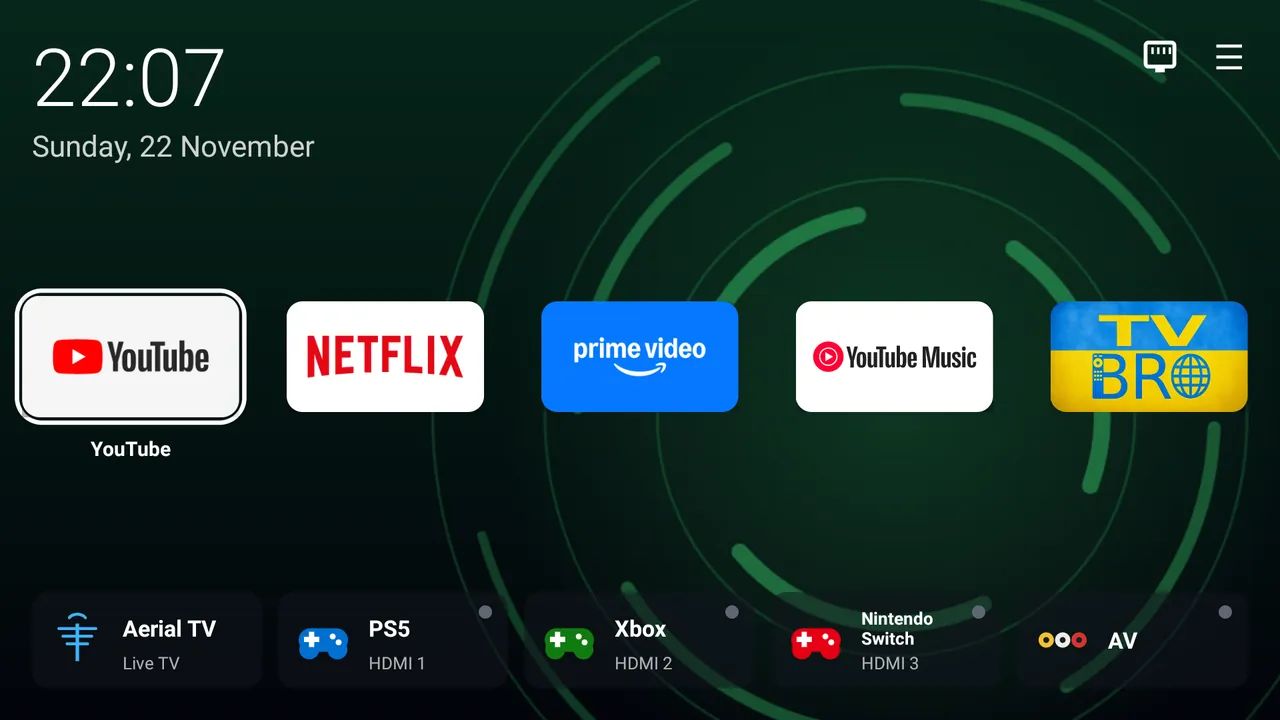
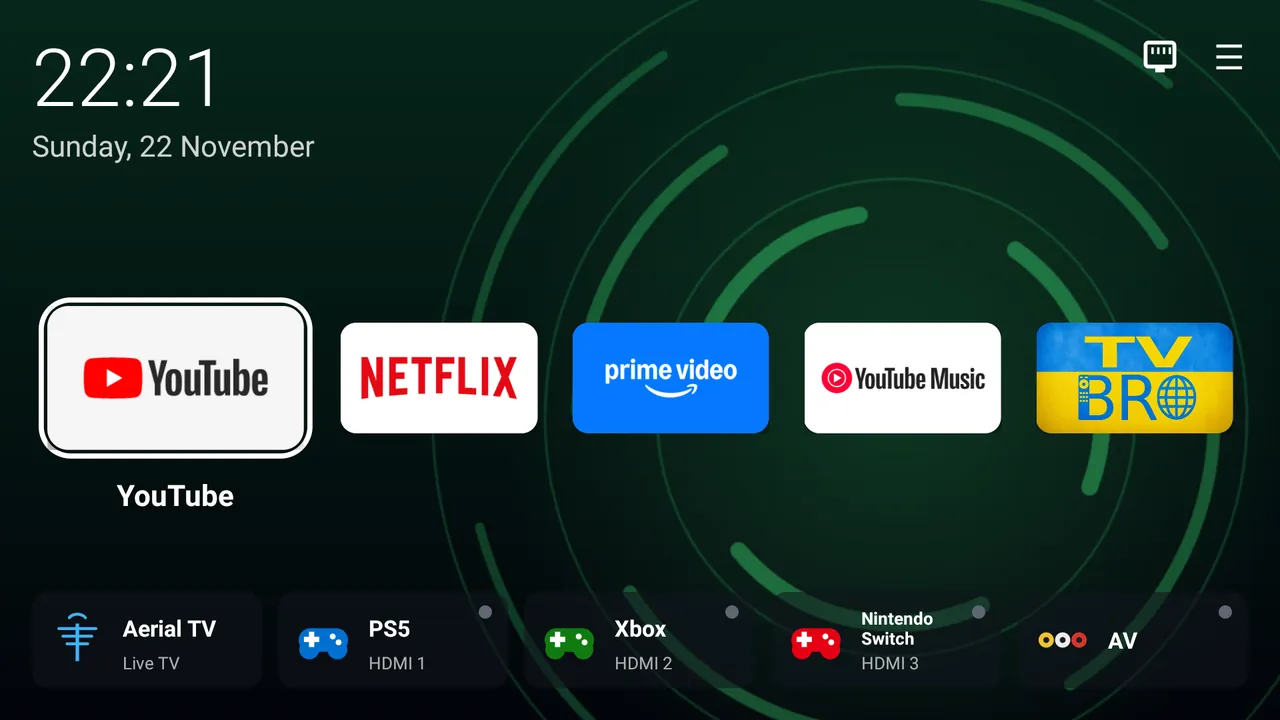
feat(launcher): console-style enlarged focus with centred name in the apps row (#44)

Changed region(s): [[0.0, 0.3972, 1.0, 0.6417], [0.0938, 0.0611, 0.1875, 0.1528], [0.0938, 0.6722, 0.1875, 0.7028]]

diff --git a/apps/home/src/io/github/yohannaftali/axshome/HomeActivity.java b/apps/home/src/io/github/yohannaftali/axshome/HomeActivity.java
@@ -64,6 +64,12 @@ public final class HomeActivity extends Activity {
     private static final int SCROLL_BLEED = 12;
     private static final int TILE_W = 148;
     private static final int TILE_H = 83;
+    /** Console-style focus: the selected tile grows from its left edge, steps right, and its name sits under it. */
+    private static final float FOCUS_SCALE = 1.3f;
+    private static final int FOCUS_NUDGE = 10;
+    private static final int NAME_GAP = 12;
+    /** Right padding so the last tile can scroll fully into view when enlarged. */
+    private static final int FOCUS_ROOM = 72;
     private static final int DOT_ON = 0xFF3DDC84;
     private static final int DOT_OFF = 0xFF5F6673;
     private static final int BG = 0xFF05070D;
@@ -541,11 +547,30 @@ public final class HomeActivity extends Activity {
         scrollLp.rightMargin = -dp(SCROLL_BLEED + RING_GAP);
         grid.addView(scroll, scrollLp);
 
+        // The row packs from the left like a console's; the stage also holds the selected
+        // app's name, drawn under the enlarged tile.
+        FrameLayout stage = new FrameLayout(this);
+        stage.setClipChildren(false);
+        stage.setClipToPadding(false);
+        scroll.addView(stage);
+        rowScroll = scroll;
+
         LinearLayout row = new LinearLayout(this);
         row.setOrientation(LinearLayout.HORIZONTAL);
         row.setClipChildren(false);
         row.setClipToPadding(false);
-        scroll.addView(row);
+        // Room on the right so the last tile can scroll fully into view when enlarged.
+        row.setPadding(0, 0, dp(FOCUS_ROOM), 0);
+        stage.addView(row, new FrameLayout.LayoutParams(
+                ViewGroup.LayoutParams.WRAP_CONTENT, ViewGroup.LayoutParams.WRAP_CONTENT));
+        rowName = label("", 22, Color.WHITE, true);
+        rowName.setSingleLine(true);
+        rowName.setShadowLayer(dp(6), 0, dp(1), 0xAA000000);
+        rowName.setAlpha(0f);
+        stage.addView(rowName, new FrameLayout.LayoutParams(
+                ViewGroup.LayoutParams.WRAP_CONTENT, ViewGroup.LayoutParams.WRAP_CONTENT));
+        rowColumns.clear();
+        rowNames.clear();
 
         for (int i = 0; i < order.size(); i++) {
             String pkg = order.get(i);
@@ -556,10 +581,25 @@ public final class HomeActivity extends Activity {
                 startMove(pkg);
                 return true;
             });
-            if (row.getChildCount() > 0) {
-                row.addView(new android.widget.Space(this), new LinearLayout.LayoutParams(dp(TILE_SPACING), 1, 1f));
-            }
-            row.addView(t);
+            ((ViewGroup) t).getChildAt(1).setVisibility(View.GONE);
+            ring.setScaleX(1f);
+            ring.setScaleY(1f);
+            int index = rowColumns.size();
+            ring.setOnFocusChangeListener((v, has) -> {
+                if (has) {
+                    focusRow(index);
+                } else {
+                    ui.post(() -> {
+                        if (focusedRowIndex() < 0) focusRow(-1);
+                    });
+                }
+            });
+            LinearLayout.LayoutParams lp = new LinearLayout.LayoutParams(
+                    ViewGroup.LayoutParams.WRAP_CONTENT, ViewGroup.LayoutParams.WRAP_CONTENT);
+            if (row.getChildCount() > 0) lp.leftMargin = dp(TILE_SPACING);
+            row.addView(t, lp);
+            rowColumns.add(t);
+            rowNames.add(String.valueOf(ring.getContentDescription()));
             tiles.put(pkg, ring);
         }
     }
@@ -980,6 +1020,73 @@ public final class HomeActivity extends Activity {
         }
         ring.setOnClickListener(v -> launch(launch));
         return column;
+    }
+
+    private HorizontalScrollView rowScroll;
+    private TextView rowName;
+    private final List<View> rowColumns = new ArrayList<>();
+    private final List<String> rowNames = new ArrayList<>();
+
+    private int focusedRowIndex() {
+        for (int i = 0; i < rowColumns.size(); i++) {
+            if (ringOf(rowColumns.get(i)).isFocused()) return i;
+        }
+        return -1;
+    }
+
+    /**
+     * Console-style row: the focused tile grows to FOCUS_SCALE from its left edge and steps
+     * FOCUS_NUDGE to the right (so its outline is clear of the page edge), its name appears
+     * centred under it, and the tiles after it slide right to make room. f = -1 settles the row.
+     */
+    private void focusRow(int f) {
+        if (rowName == null) return;
+        if (f >= 0 && f < rowColumns.size() && rowColumns.get(f).getHeight() == 0) {
+            // First focus right after the row was built: place the name once it has a size.
+            rowScroll.post(() -> focusRow(f));
+            return;
+        }
+        float colW = dp(TILE_W + 2 * RING_GAP);
+        if (f >= 0) {
+            rowName.setText(rowNames.get(f));
+            rowName.measure(View.MeasureSpec.UNSPECIFIED, View.MeasureSpec.UNSPECIFIED);
+        }
+        float shift = dp(FOCUS_NUDGE) + (FOCUS_SCALE - 1f) * colW;
+        android.view.animation.DecelerateInterpolator ease = new android.view.animation.DecelerateInterpolator();
+        for (int i = 0; i < rowColumns.size(); i++) {
+            View c = rowColumns.get(i);
+            c.setPivotX(0);
+            c.setPivotY(c.getHeight() / 2f);
+            float s = i == f ? FOCUS_SCALE : 1f;
+            float tx = i == f ? dp(FOCUS_NUDGE) : (f >= 0 && i > f ? shift : 0);
+            c.animate().scaleX(s).scaleY(s).translationX(tx).setDuration(170).setInterpolator(ease).start();
+            View tile = ((ViewGroup) ringOf(c)).getChildAt(0);
+            tile.setElevation(dp(i == f ? 16 : 6));
+        }
+        if (f < 0) {
+            rowName.animate().alpha(0f).setDuration(120).start();
+            // Settled row fits on screen: scroll back so the first app is not left cut off.
+            View row = (View) rowColumns.get(0).getParent();
+            int view = rowScroll.getWidth() - rowScroll.getPaddingLeft() - rowScroll.getPaddingRight();
+            if (row.getWidth() - row.getPaddingRight() <= view) rowScroll.smoothScrollTo(0, 0);
+            return;
+        }
+        View c = rowColumns.get(f);
+        // Centred under the enlarged banner.
+        float x = c.getLeft() + dp(FOCUS_NUDGE) + FOCUS_SCALE * colW / 2f - rowName.getMeasuredWidth() / 2f;
+        float y = c.getTop() + c.getHeight() / 2f + FOCUS_SCALE * c.getHeight() / 2f + dp(NAME_GAP);
+        rowName.setTranslationX(x);
+        rowName.setTranslationY(y - dp(8));
+        rowName.setAlpha(0f);
+        rowName.animate().alpha(1f).translationY(y).setDuration(200).setInterpolator(ease).start();
+        // Keep the enlarged tile on screen (the scroll view only knows untranslated positions).
+        float right = c.getLeft() + dp(FOCUS_NUDGE) + FOCUS_SCALE * colW + dp(RING_GAP);
+        rowScroll.post(() -> {
+            int sx = rowScroll.getScrollX();
+            int view = rowScroll.getWidth() - rowScroll.getPaddingLeft() - rowScroll.getPaddingRight();
+            if (right - sx > view) rowScroll.smoothScrollTo((int) (right - view), 0);
+            else if (c.getLeft() < sx) rowScroll.smoothScrollTo(c.getLeft(), 0);
+        });
     }
 
     private static View ringOf(View tileColumn) {

diff --git a/CHANGE_HISTORY.md b/CHANGE_HISTORY.md
@@ -3,6 +3,14 @@
 Newest first. Never include the TV IP, Netflix ESN, serial, MACs or account
 names — see `AGENTS.md` → Private data.
 
+## [2026-11-22] — feat(launcher): console-style enlarged focus in the apps row (#44)
+- Issue #44 (owner's request)
+- Files: apps/home/src/.../HomeActivity.java (focusRow: 1.3x from the left edge, 10 dp nudge, following tiles slide, shared name label centred under the tile, settle and scroll back; row packed from the left), changes/1-fast-home/README.md, docs/screenshots/home-*.webp
+- Iterations with the owner on the TV: name beside the tile, then under it left-aligned, then centred (final)
+- Verified on TV: first, middle and last tile (all on screen with five apps), name placement, settle when moving to the inputs, move mode (amber, enlarged), cold start 609–630 ms, no crash
+- Not verified: reboot
+- TV state left: applied (branch 44-ps5-focus, not merged yet)
+
 ## [2026-11-22] — feat(launcher): Aerial TV card and tighter home layout (#42)
 - Issue #42
 - Files: apps/home/src/.../HomeActivity.java (tuner card opens TvContract.buildChannelsUriForInput, no dot for tuners; two-line auto-sized card names; equal 24 dp page margins; clock 60 sp / date 22 sp without font padding; ☰ and network icon in the top-right corner; apps row vertically centred; tiles and input cards aligned to the page margin; "Inputs" label removed; 12 dp card gaps), IconView.java (antenna icon), apps/home/config/home.conf (Aerial TV line, documented), README.md, changes/1-fast-home/README.md, docs/screenshots/home-{waves,orbit,pop,bloom}.webp

diff --git a/changes/1-fast-home/README.md b/changes/1-fast-home/README.md
@@ -16,9 +16,11 @@ Layout since #18:
  | 🎮 PS5 ● HDMI 1 | 🎮 Xbox ● HDMI 2 | 🎮 Switch ● HDMI 3 | ○○○ AV ● |
 ```
 
-- **Apps row**: one row spread evenly across the screen; with more apps it
-  scrolls sideways. The selected banner zooms in with a white ring around it
-  and its name underneath. OK opens an app. HOME always lands on the first app.
+- **Apps row**: one row packed from the left, console style. The selected
+  banner grows to 1.3x from its left edge, steps a little to the right (so its
+  white ring never touches the page edge), the apps after it slide right, and
+  its name appears centred underneath. With more apps the row scrolls
+  sideways; when focus leaves the row it settles back. OK opens an app. HOME always lands on the first app.
 - **Rearrange on the TV**: long-press OK on an app (the ring turns amber),
   move it with LEFT/RIGHT (it swaps places), OK to place. The order is kept across restarts and
   reboots. ☰ → *Reset app order* goes back to the `home.conf` order.

diff --git a/AGENTS.md b/AGENTS.md
@@ -135,3 +135,4 @@ Rules:
 | #38 | feat(launcher): System monitor page with live CPU, RAM, storage and a top-style app list | closed | 2026-11-22 |
 | #40 | feat(apps): Phone remote — QR code opens a browser remote and keyboard served by the TV | closed | 2026-11-22 |
 | #42 | feat(launcher): Aerial TV card before HDMI 1 in the inputs bar | closed | 2026-11-22 |
+| #44 | feat(launcher): console-style enlarged focus with centred name in the apps row | ready-for-review | 2026-11-22 |
